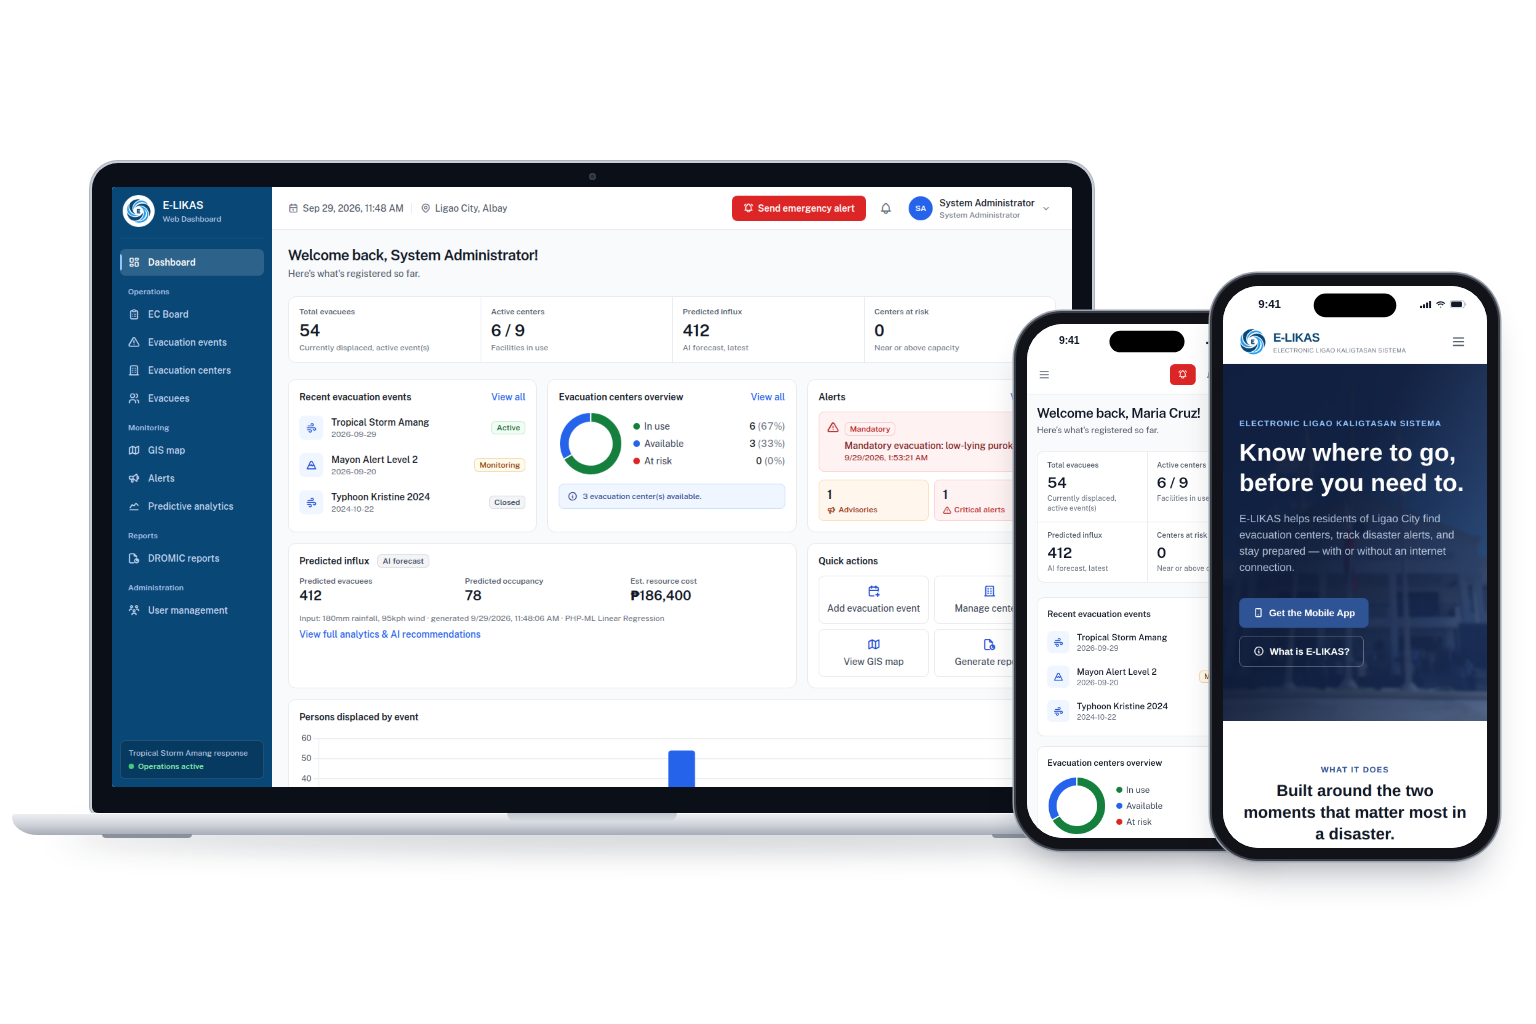
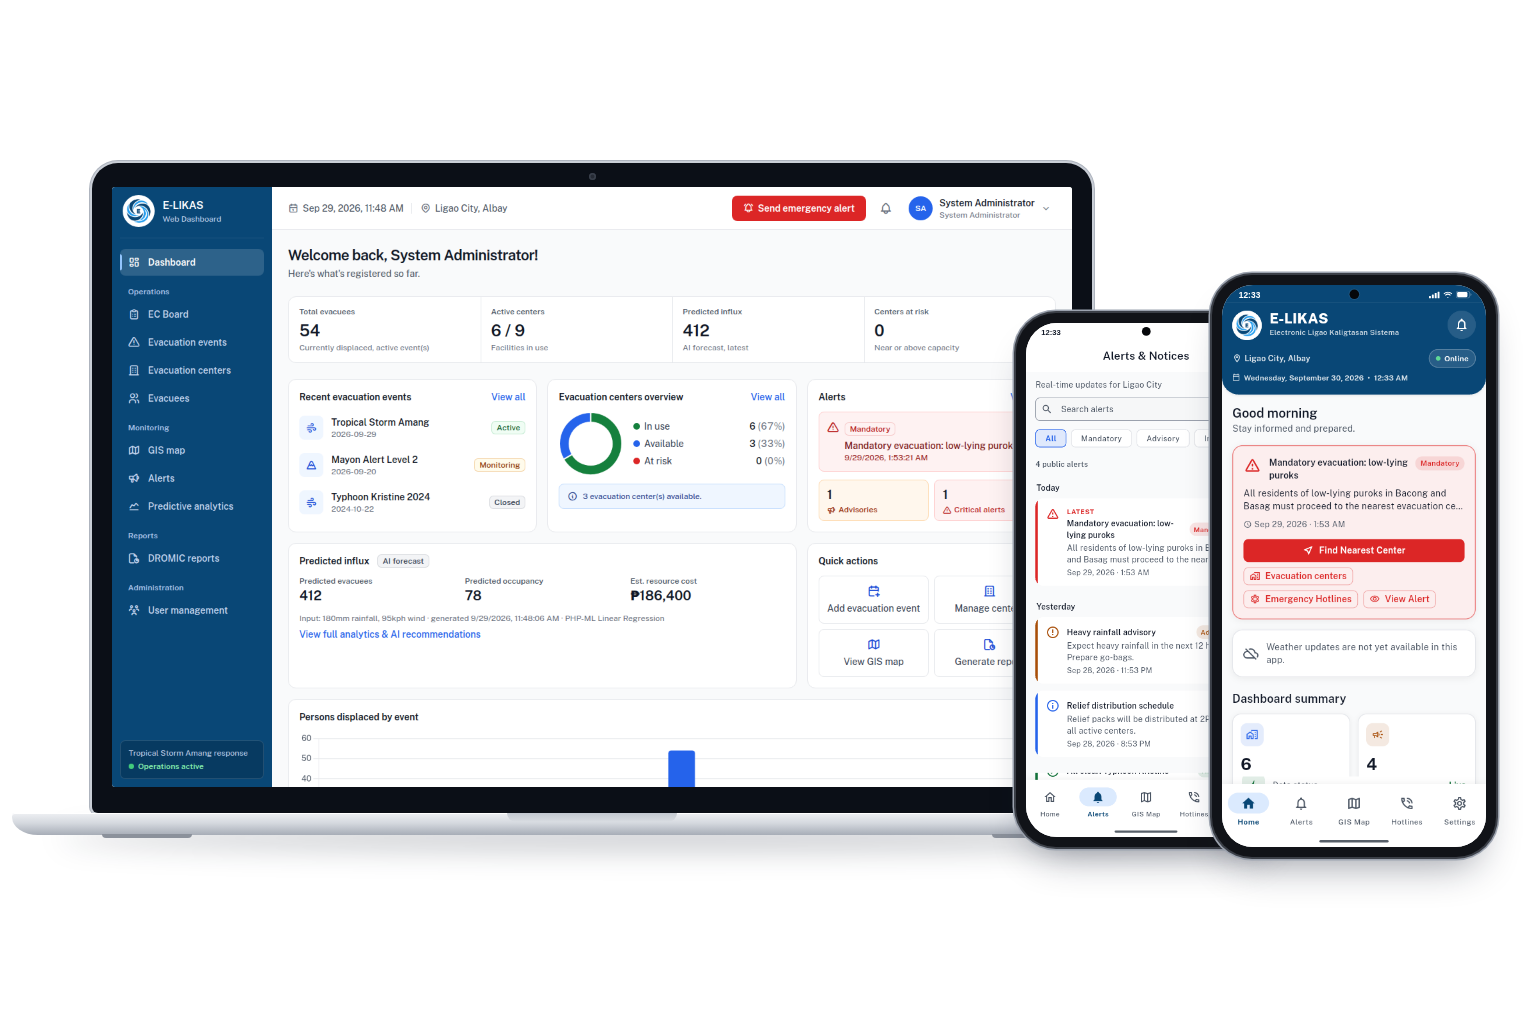
About page: show the real mobile app on the mockup's phones
The two phones beside the laptop showed the dashboard and the resident
website in a phone browser. They now show the resident mobile app's own
Home (front) and Alerts (back) screens, taken from the redesigned app,
in Android phone frames since the app ships as an APK. The laptop still
shows the web dashboard. Alt text and the design doc's note updated.

Claude-Session: https://claude.ai/code/session_01GrFbuYzr8tujMe9TjAuLS7

Changed region(s): [[0.6562, 0.25, 1.0, 0.8438]]

diff --git a/resources/views/about.blade.php b/resources/views/about.blade.php
@@ -157,7 +157,7 @@
                 </div>
 
                 <div class="lg:col-span-2 lg:pt-8" data-aos="fade-left">
-                    <img src="/images/about-dashboard-mockup.png" alt="E-LIKAS web dashboard on a laptop and a phone, next to the resident website on a phone" class="w-full h-auto object-contain">
+                    <img src="/images/about-dashboard-mockup.png" alt="E-LIKAS web dashboard on a laptop, next to the E-LIKAS mobile app's Home and Alerts screens on two phones" class="w-full h-auto object-contain">
                 </div>
             </div>
         </section>

diff --git a/docs/design-system.md b/docs/design-system.md
@@ -365,12 +365,14 @@ A 40px `gray-300` decorative icon, a 14px `gray-700` medium line, a 14px
   a white circle, mark at 78% of the circle. Its dark-navy arms vanish against
   navy otherwise.
 - **Mockup images:** `public/images/about-dashboard-mockup.png` (About page)
-  is built from real screenshots of the dashboard (laptop), the dashboard on
-  a phone, and the resident home page on a phone.
+  is built from real screenshots: the dashboard on the laptop, and the
+  resident mobile app's Home (front) and Alerts (back) screens on the two
+  phones, drawn as Android phones because the app ships as an APK.
   `public/images/contact-hotlines-phone-mockup.png` (Contact page) is the real
-  `/hotlines` page on a phone, so it shows the actual numbers. When either
-  page changes (a hotline number, the dashboard layout), retake the
-  screenshots rather than editing the image by hand.
+  `/hotlines` page on a phone, so it shows the actual numbers. When what
+  they show changes (a hotline number, the dashboard layout, the mobile
+  app's screens), retake the screenshots rather than editing the image by
+  hand.
 
 ## Checking your work
 
